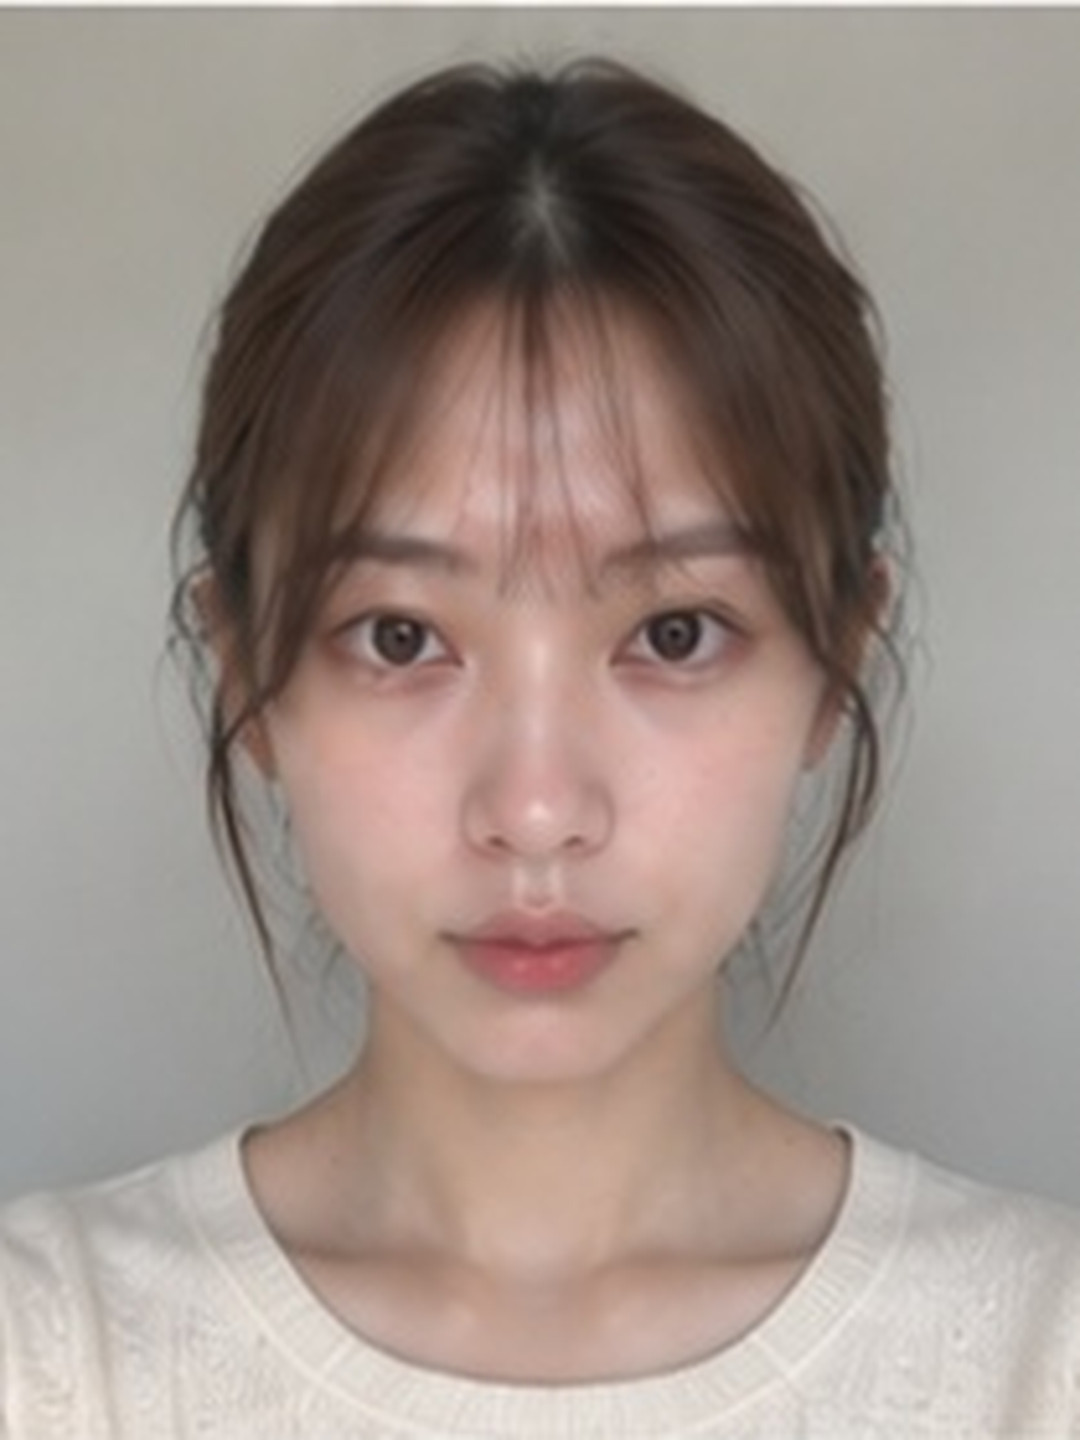
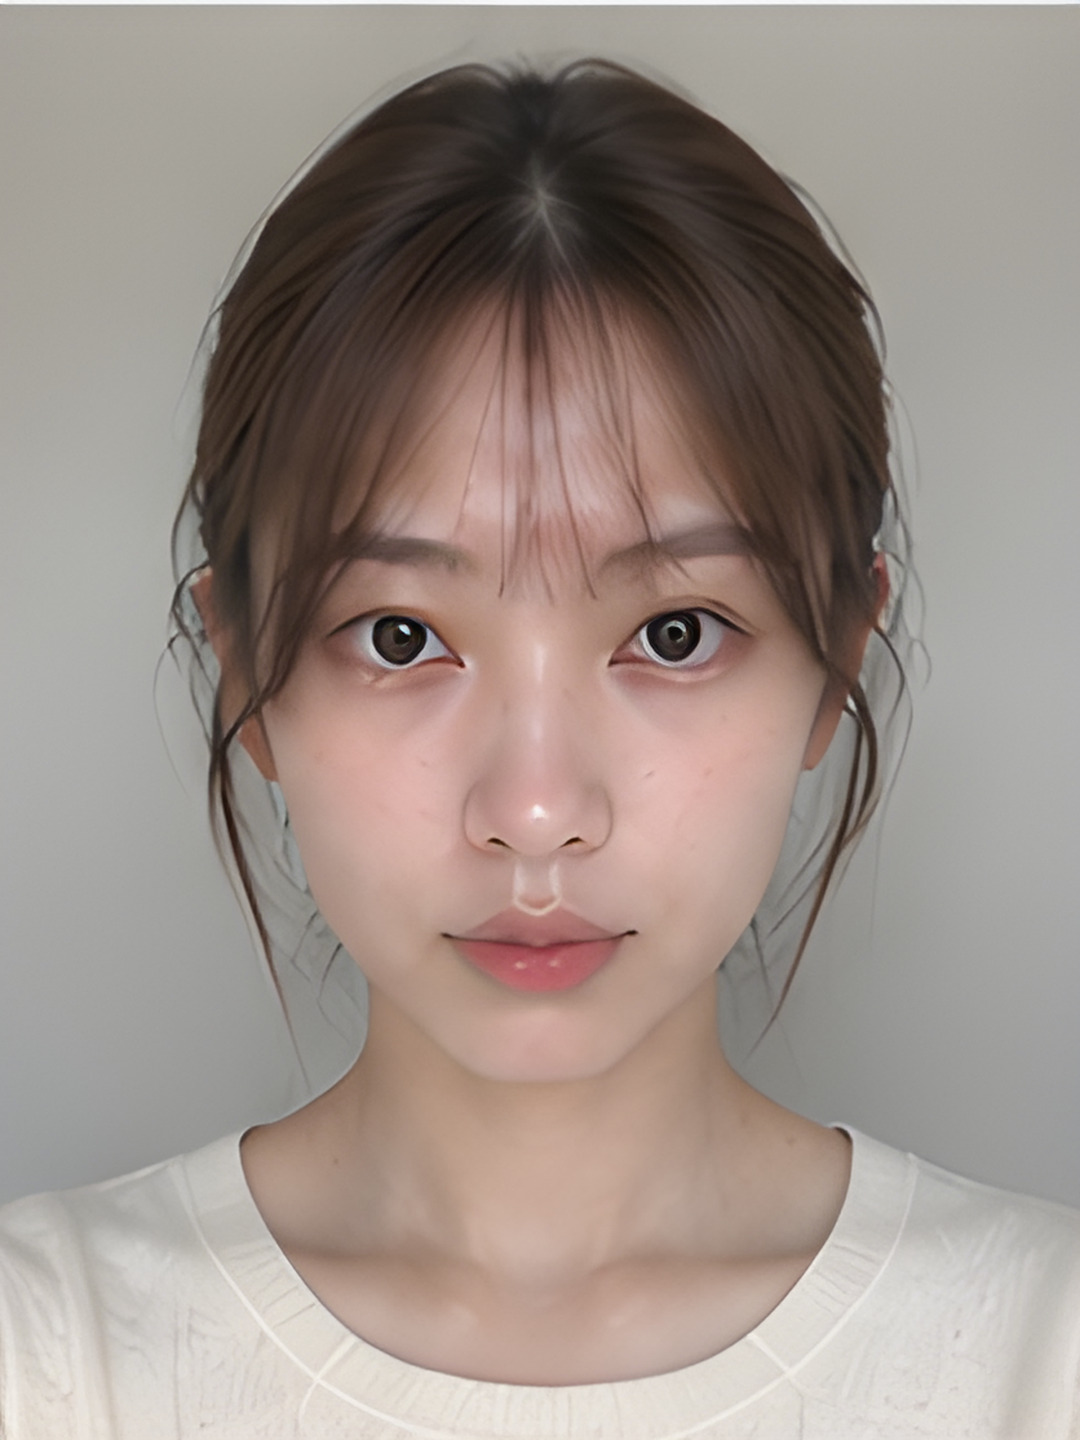
촬영 세트 샘플 선명도 개선: 원본 셀을 Real-ESRGAN x4로 초해상도 후 1080×1440 셀카 비율로 저장
Claude-Session: https://claude.ai/code/session_01XZGyGspy4Y4PECP2USdxRz

diff --git a/README.md b/README.md
@@ -41,7 +41,7 @@
 ```
 docs/   서비스 정의, 기능 정의서, 화면 브리프, 구현 요소 정의, 데이터셋 목록, 다이어그램 4장
 poc/    브라우저 POC — 화면별 폴더. 아이라이너·볼터치 채점 (poc/), 화면 6 전체 리뷰 (poc/screen6/)
-danghaeung_poc_3x4_20/  촬영 세트 샘플 20장 (5명 × 정면 눈 뜸·감음·좌45·우45, 셀카 3:4 1080×1440) + 원본 시트
+danghaeung_poc_3x4_20/  촬영 세트 샘플 20장 (5명 × 정면 눈 뜸·감음·좌45·우45, 셀카 3:4 1080×1440, Real-ESRGAN 4배 초해상도) + 원본 시트
 ```
 
 문서 색인과 확정 사항은 [`docs/README.md`](docs/README.md)에서 시작하세요. 화면별 결정 이력은 [`docs/service-definition-v6.md`](docs/service-definition-v6.md) 부록에 있습니다.
